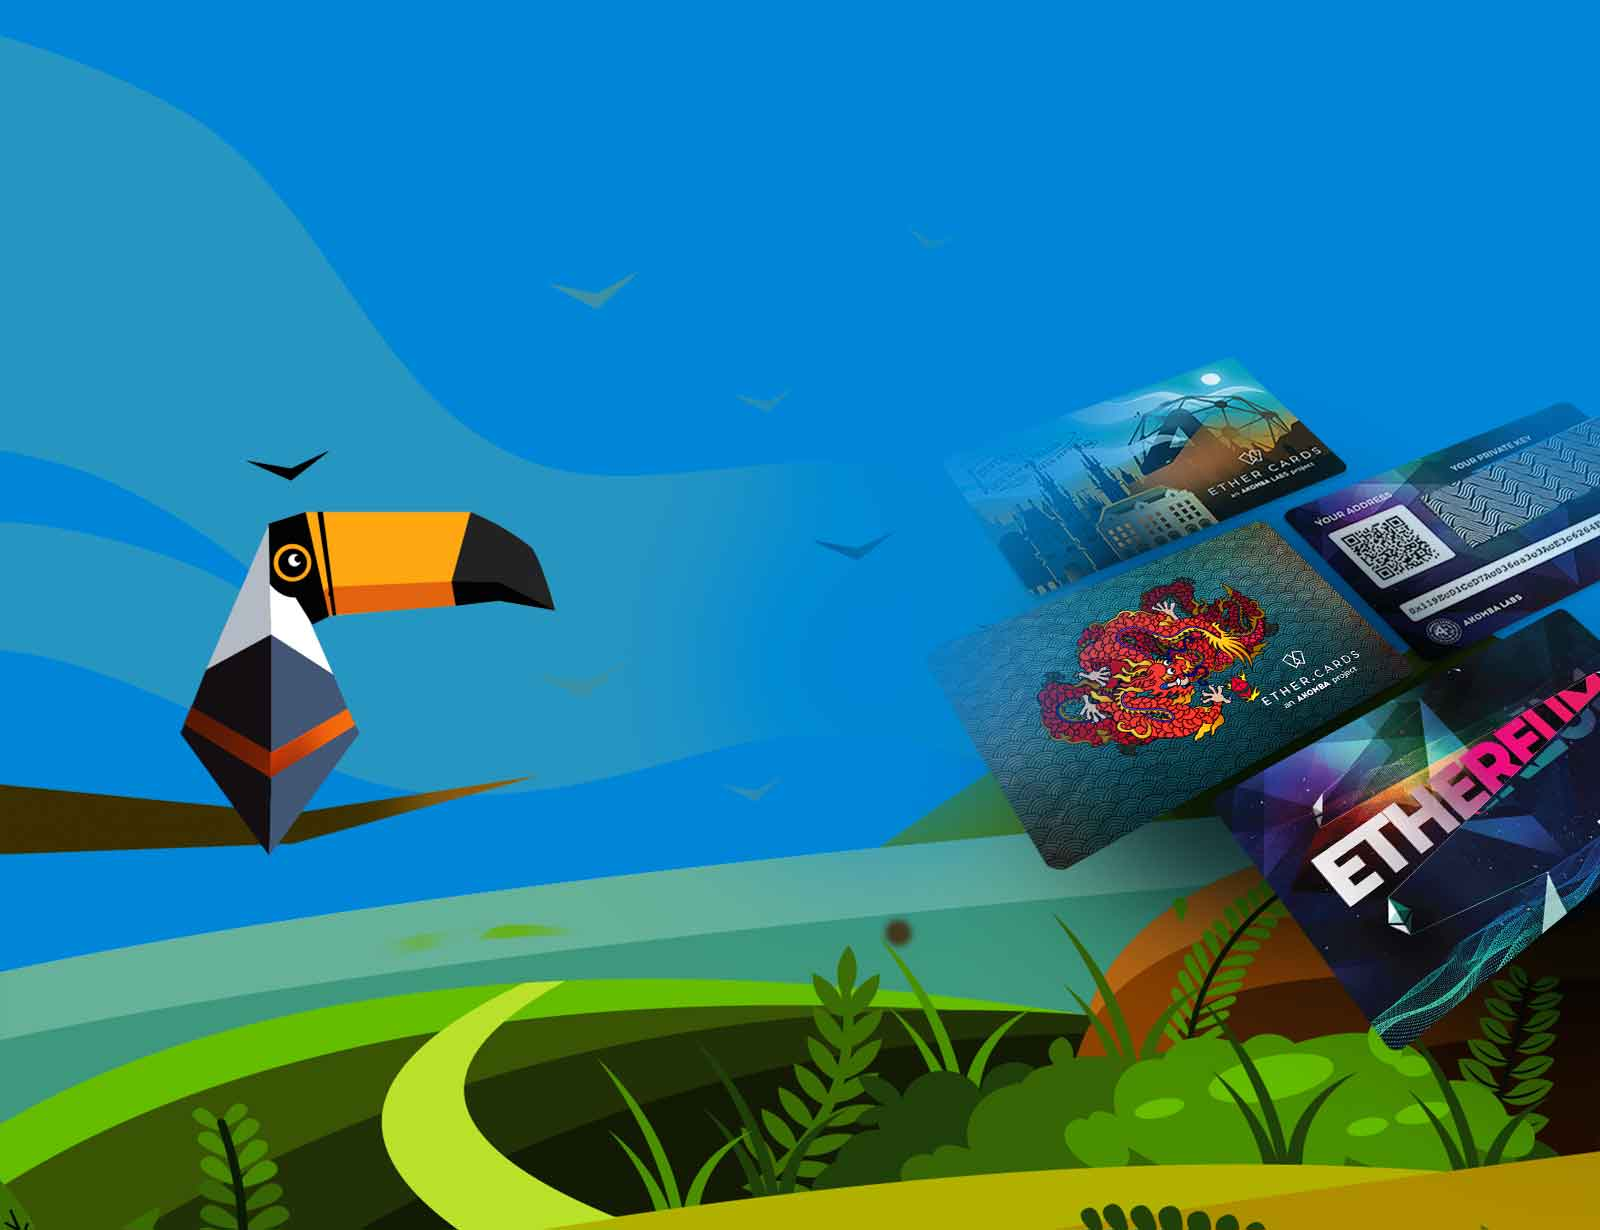
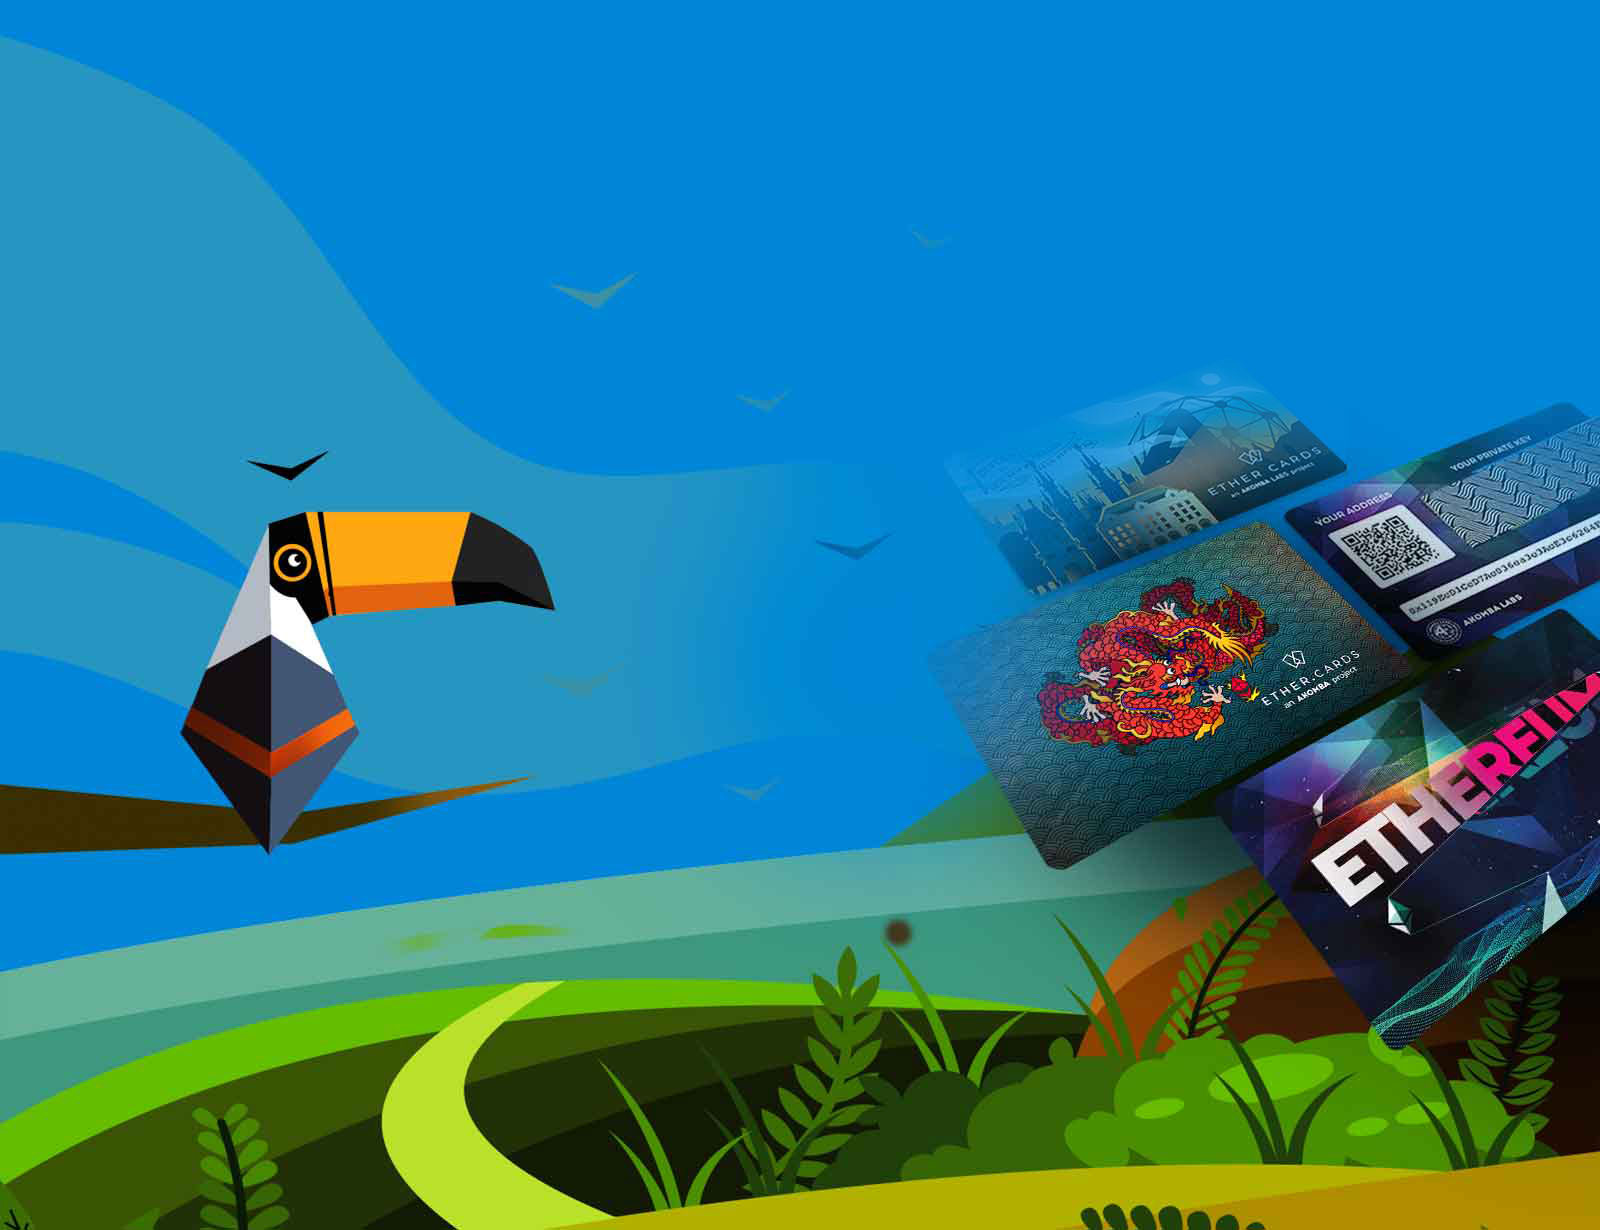
design upd

Changed region(s): [[0.6562, 0.278, 0.8438, 0.4325], [0.7188, 0.5561, 0.75, 0.587], [0.7188, 0.4943, 0.75, 0.5252]]

diff --git a/css/ethercards.css b/css/ethercards.css
@@ -217,8 +217,9 @@ h5.text-logo{
 
 
 .header {
+    font-size: 2.5em;
     margin-bottom:25px;
-    text-transform: uppercase;
+    /* text-transform: uppercase; */
 }
 
 .subhead {
@@ -255,30 +256,42 @@ h1.abs {
 .ehbox{
     position: relative;
     padding: 35px 5px;
+    border: none;
+    background: transparent;
+    box-shadow:  0 0 0 #000;
 
-    background: url('../img/card-bg.png');
+  /*   background: url('../img/card-bg.png');
     background-position: bottom center;
     background-size: cover;
     border-radius: 10px;
-    box-shadow:  0 0 0 #000;
+     */
     transition: all 0.5s ease;
     margin-left: 5px;
     margin-right: 5px;
 }
 
-.ehbox * {
-    opacity: 0.8;
-}
-
 .ehbox:hover {
-    box-shadow:  0 0 40px #000;
-    background-color: #0f1027;
+    /*  box-shadow:  0 0 40px #000;
+    background-color: #0f1027; */
     transform: translateY(-25px);
 }
 
-.ehbox:hover * {
+/* 
+.ehbox h3, .ehbox ul {
+    opacity: 0.8;
+}
+.ehbox:hover h3, .ehbox:hover ul {
     opacity: 1.0;
 }
+ */
+.ehbox .card-img-top{
+    margin-left: auto;
+    margin-right: auto;
+    margin-bottom: 15px;
+    width: 50%;
+}
+
+
 
 .ehbox .img-container{
     height: 70px;
@@ -291,6 +304,7 @@ h1.abs {
 
 .ehbox .subhead{
     text-align:center;
+    font-size: 1.2em;
 }
 
 .img-container img{
@@ -311,7 +325,7 @@ h1.abs {
 }
 
 #home .row{
-    margin-top: 50px;
+    margin-top: 0;
     margin-bottom: 120px;
 }
 
@@ -710,8 +724,15 @@ span.down {
     }
 
     #home .row{
-        margin-top: 50px;
+        margin-top: 0;
         margin-bottom: 80px;
+    }
+
+    .ehbox .card-img-top{
+        margin-left: auto;
+        margin-right: auto;
+        margin-bottom: 15px;
+        width: 70%;
     }
 }
 
@@ -728,7 +749,7 @@ span.down {
     }
 
     #home .row{
-        margin-top: 50px;
+        margin-top: 0;
         margin-bottom: 50px;
     }
 }
@@ -764,7 +785,7 @@ span.down {
     }
 
     #home .row{
-        margin-top: 40px;
+        margin-top: 0;
         margin-bottom: 40px;
     }
 }

diff --git a/index.html b/index.html
@@ -41,7 +41,7 @@
       <main role="main" class="">
         <section class="section" id="home">
 
-          <div class="row container mt-100 mb-5">
+          <div class="row container mt-5 mb-3">
             <div class="col-md-10 offset-md-1 text-center">
               <h1 class="header mb-5">Coming soon</h1>
               <p>Ether.cards technology — using NFC-enabled chips — can fuse unique tokens with physical objects inseparably. It enables the physical objects to evolve, receive power-ups and improve statistics.</p>
@@ -52,6 +52,7 @@
             <div class="col-md-12">
               <div class="row card-deck row-eq-height-disabled">
                 <div class="ehbox card">
+                  <img class="card-img-top" src="img/image-01.png" alt="img1"/>
                   <h3 class="subhead">Collectibles</h3>
                   <ul>
                     <li>Guaranteed Authenticity</li>
@@ -60,6 +61,7 @@
                   </ul>
                 </div>
                 <div class="ehbox card">
+                  <img class="card-img-top" src="img/image-02.png" alt="img1"/>
                   <h3 class="subhead">Gaming</h3>
                   <ul>
                     <li>Guaranteed Authenticity</li>
@@ -68,6 +70,7 @@
                   </ul>
                 </div>
                 <div class="ehbox card">
+                  <img class="card-img-top" src="img/image-03.png" alt="img1"/>  
                   <h3 class="subhead">Ticketing</h3>
                   <ul>
                     <li>Makes counterfeiting difficult</li>
